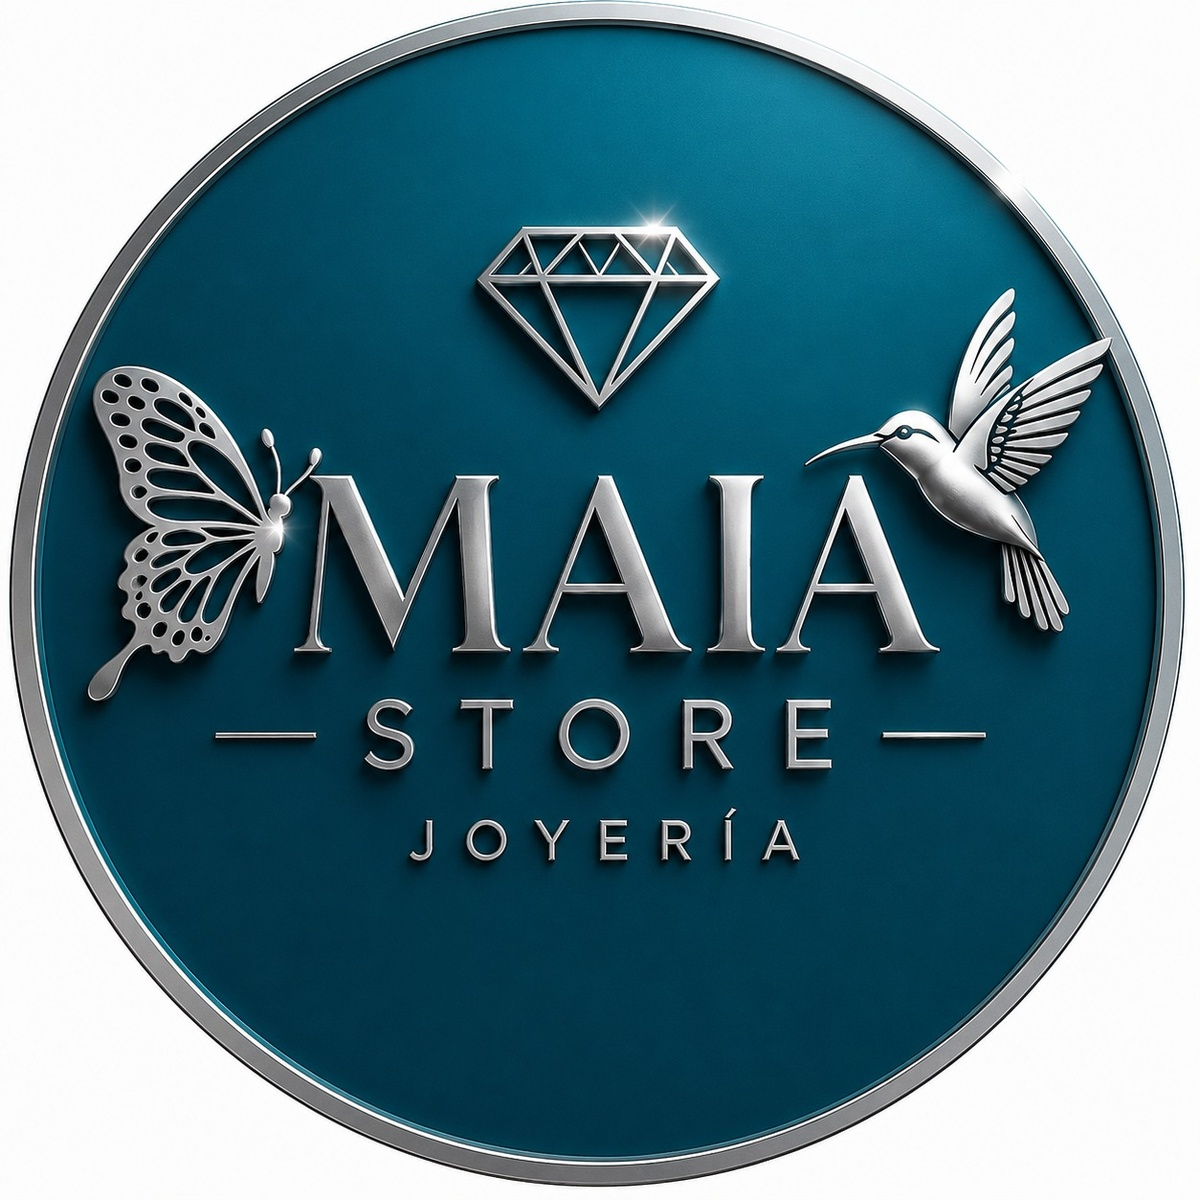
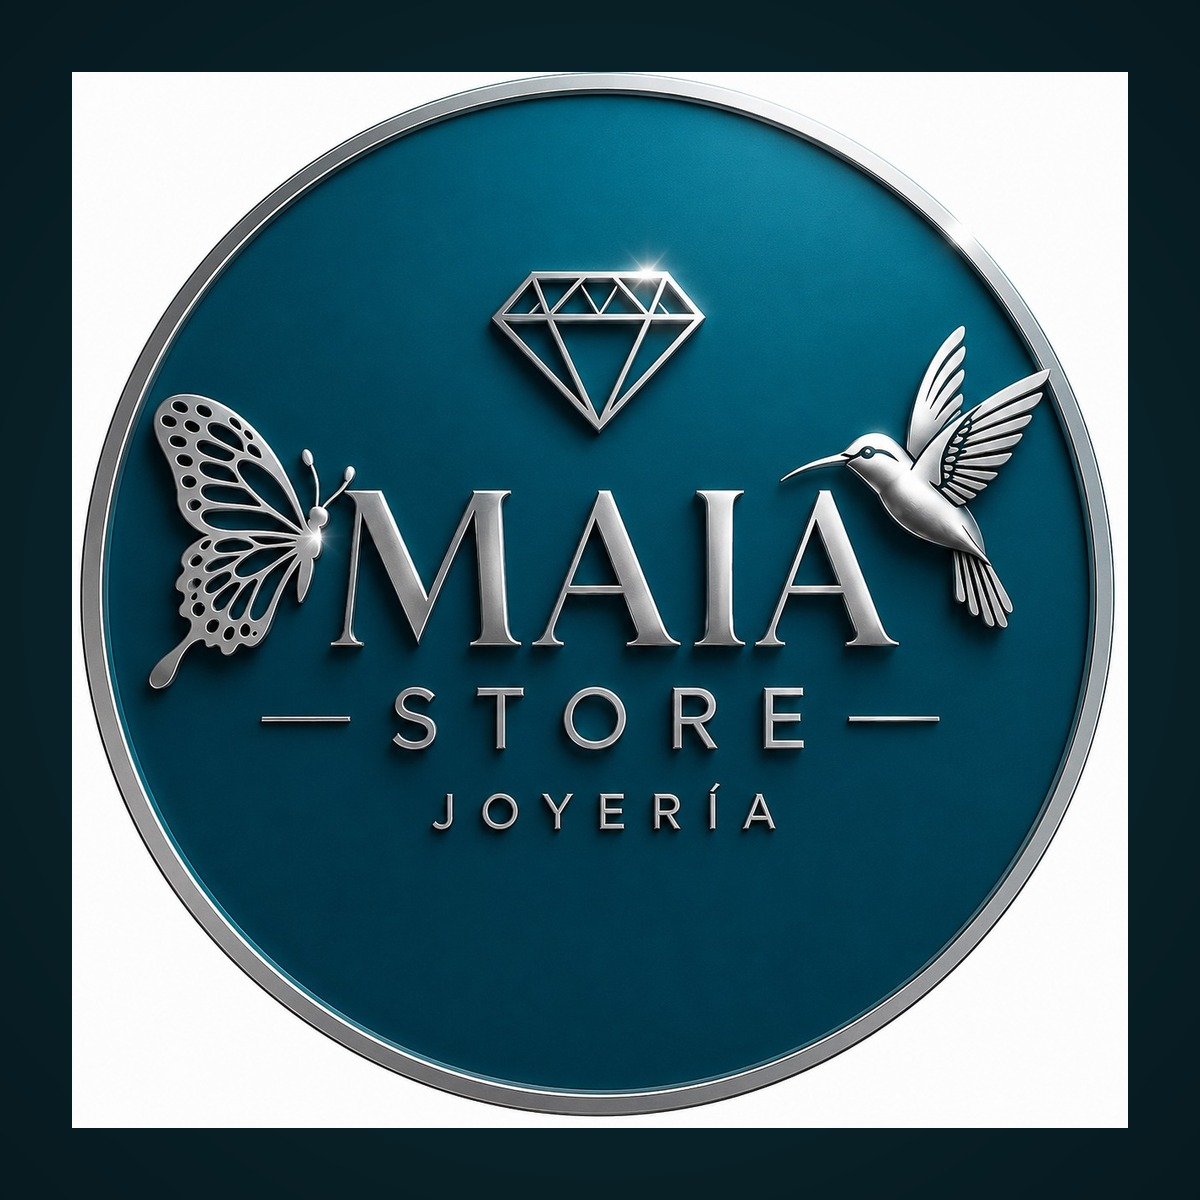
fix: OG cuadrado primero para WhatsApp + texto favoritos no desborda + coleccion no se rompe

diff --git a/src/app/(store)/coleccion/ColeccionClient.tsx b/src/app/(store)/coleccion/ColeccionClient.tsx
@@ -1,8 +1,8 @@
 'use client';
 
-import { useRef, useEffect } from 'react';
+import { useEffect } from 'react';
 import { useSearchParams } from 'next/navigation';
-import { motion, useInView } from 'framer-motion';
+import { motion } from 'framer-motion';
 import { MessageCircle, ShoppingBag, Heart, ArrowDown } from 'lucide-react';
 import Link from 'next/link';
 import { useStore } from '@/lib/store-context';
@@ -13,9 +13,6 @@ export default function ColeccionClient() {
   const searchParams = useSearchParams();
   const activeCategory = searchParams.get('categoria') || 'todos';
   const { isFavorite, toggleFavorite, addToCart } = useStore();
-  const sectionRef = useRef<HTMLDivElement>(null);
-  const isInView = useInView(sectionRef, { once: true, margin: '-60px' });
-
   const { viewMode, setViewMode, isReady } = useGridView('single');
 
   const filteredProducts = getProductsByCategory(activeCategory);
@@ -33,13 +30,13 @@ export default function ColeccionClient() {
   }, [activeCategory]);
 
   return (
-    <div ref={sectionRef} className="relative pt-20 pb-20 sm:pb-24">
+    <div className="relative pt-20 pb-20 sm:pb-24">
       <div className="max-w-[1440px] mx-auto px-2 sm:px-6 lg:px-12 xl:px-16">
         {/* Page Header */}
         <div id="coleccion-header" className="text-center mb-8 pt-4 scroll-mt-16">
           <motion.span
             initial={{ opacity: 0, y: 15 }}
-            animate={isInView ? { opacity: 1, y: 0 } : {}}
+            animate={{ opacity: 1, y: 0 }}
             transition={{ duration: 0.5 }}
             className="text-xs font-semibold tracking-[0.2em] uppercase text-turquoise-600 mb-3 block"
           >
@@ -47,7 +44,7 @@ export default function ColeccionClient() {
           </motion.span>
           <motion.h1
             initial={{ opacity: 0, y: 15 }}
-            animate={isInView ? { opacity: 1, y: 0 } : {}}
+            animate={{ opacity: 1, y: 0 }}
             transition={{ duration: 0.5, delay: 0.05 }}
             className="text-3xl sm:text-4xl md:text-5xl font-bold text-foreground mb-3"
           >
@@ -55,7 +52,7 @@ export default function ColeccionClient() {
           </motion.h1>
           <motion.p
             initial={{ opacity: 0, y: 15 }}
-            animate={isInView ? { opacity: 1, y: 0 } : {}}
+            animate={{ opacity: 1, y: 0 }}
             transition={{ duration: 0.5, delay: 0.1 }}
             className="text-sm text-foreground/40 max-w-md mx-auto"
           >
@@ -66,7 +63,7 @@ export default function ColeccionClient() {
         {/* Breadcrumb */}
         <motion.nav
           initial={{ opacity: 0 }}
-          animate={isInView ? { opacity: 1 } : {}}
+          animate={{ opacity: 1 }}
           transition={{ duration: 0.3, delay: 0.15 }}
           className="flex items-center justify-center gap-1.5 text-xs text-foreground/40 mb-6"
         >
@@ -84,7 +81,7 @@ export default function ColeccionClient() {
         {/* Category Filters + Grid Toggle */}
         <motion.div
           initial={{ opacity: 0, y: 10 }}
-          animate={isInView ? { opacity: 1, y: 0 } : {}}
+          animate={{ opacity: 1, y: 0 }}
           transition={{ duration: 0.5, delay: 0.2 }}
           className="flex flex-wrap items-center justify-center gap-2 mb-10"
         >
@@ -114,7 +111,7 @@ export default function ColeccionClient() {
                 key={product.id}
                 initial={{ opacity: 0, y: 20 }}
                 whileInView={{ opacity: 1, y: 0 }}
-                viewport={{ once: true, margin: '-40px' }}
+                viewport={{ once: false, margin: '-40px' }}
                 transition={{ duration: 0.35, delay: i * 0.04 }}
                 className="product-card group cursor-pointer overflow-hidden"
               >

diff --git a/src/app/(store)/favoritos/FavoritosClient.tsx b/src/app/(store)/favoritos/FavoritosClient.tsx
@@ -56,7 +56,7 @@ export default function FavoritosClient() {
                 initial={{ opacity: 0, y: 15 }}
                 animate={{ opacity: 1, y: 0 }}
                 transition={{ duration: 0.3, delay: i * 0.06 }}
-                className="flex gap-4 p-3 rounded-2xl bg-white/60 border border-zinc-100/60 overflow-hidden min-w-0"
+                className="flex gap-4 p-3 rounded-2xl bg-white/60 border border-zinc-100/60 overflow-hidden max-w-full"
               >
                 <Link
                   href={`/coleccion/${product.slug}`}
@@ -68,17 +68,17 @@ export default function FavoritosClient() {
                     className="w-full h-full object-cover"
                   />
                 </Link>
-                <div className="flex-1 min-w-0 overflow-hidden">
+                <div className="flex-1 min-w-0 w-0 overflow-hidden break-words">
                   <Link
                     href={`/coleccion/${product.slug}`}
-                    className="block font-semibold text-sm text-foreground line-clamp-2 cursor-pointer hover:text-primary transition-colors"
+                    className="block font-semibold text-sm text-foreground line-clamp-2 cursor-pointer hover:text-primary transition-colors break-words"
                   >
                     {product.name}
                   </Link>
                   <p className="text-xs text-foreground/40 mt-0.5 line-clamp-2">
                     {product.description}
                   </p>
-                  <div className="flex items-center justify-between mt-3">
+                  <div className="flex items-center justify-between mt-3 min-w-0 gap-2">
                     <span className="text-base font-bold text-primary">
                       {formatPrice(product.price)}
                     </span>

diff --git a/src/app/(store)/layout.tsx b/src/app/(store)/layout.tsx
@@ -44,6 +44,20 @@ export const metadata: Metadata = {
     url: siteUrl,
     images: [
       {
+        url: "/og-image-square.jpg",
+        width: 1200,
+        height: 1200,
+        alt: "Maia Store — Joyas Tejidas a Mano",
+        type: "image/jpeg",
+      },
+      {
+        url: "/og-image-square.webp",
+        width: 1200,
+        height: 1200,
+        alt: "Maia Store — Joyas Tejidas a Mano",
+        type: "image/webp",
+      },
+      {
         url: "/og-image.jpg",
         width: 1200,
         height: 630,
@@ -64,7 +78,7 @@ export const metadata: Metadata = {
     title: "Maia Store | Joyas Tejidas a Mano",
     description:
       "Colección exclusiva de joyas artesanales tejidas a mano. Diseños únicos peruanos.",
-    images: ["/og-image.jpg", "/og-image.webp"],
+    images: ["/og-image-square.jpg", "/og-image-square.webp", "/og-image.jpg", "/og-image.webp"],
   },
   robots: {
     index: true,

diff --git a/src/app/(store)/coleccion/page.tsx b/src/app/(store)/coleccion/page.tsx
@@ -13,6 +13,20 @@ export const metadata: Metadata = {
     type: 'website',
     images: [
       {
+        url: '/og-image-square.jpg',
+        width: 1200,
+        height: 1200,
+        alt: 'Maia Store — Colección de Joyas Artesanales',
+        type: 'image/jpeg',
+      },
+      {
+        url: '/og-image-square.webp',
+        width: 1200,
+        height: 1200,
+        alt: 'Maia Store — Colección de Joyas Artesanales',
+        type: 'image/webp',
+      },
+      {
         url: '/og-image.jpg',
         width: 1200,
         height: 630,
@@ -30,7 +44,7 @@ export const metadata: Metadata = {
   },
   twitter: {
     card: 'summary_large_image',
-    images: ['/og-image.jpg', '/og-image.webp'],
+    images: ['/og-image-square.jpg', '/og-image-square.webp', '/og-image.jpg', '/og-image.webp'],
   },
 };
 

diff --git a/src/app/layout.tsx b/src/app/layout.tsx
@@ -24,6 +24,20 @@ export const metadata: Metadata = {
   openGraph: {
     images: [
       {
+        url: "/og-image-square.jpg",
+        width: 1200,
+        height: 1200,
+        alt: "Maia Store — Joyas Tejidas a Mano",
+        type: "image/jpeg",
+      },
+      {
+        url: "/og-image-square.webp",
+        width: 1200,
+        height: 1200,
+        alt: "Maia Store — Joyas Tejidas a Mano",
+        type: "image/webp",
+      },
+      {
         url: "/og-image.jpg",
         width: 1200,
         height: 630,
